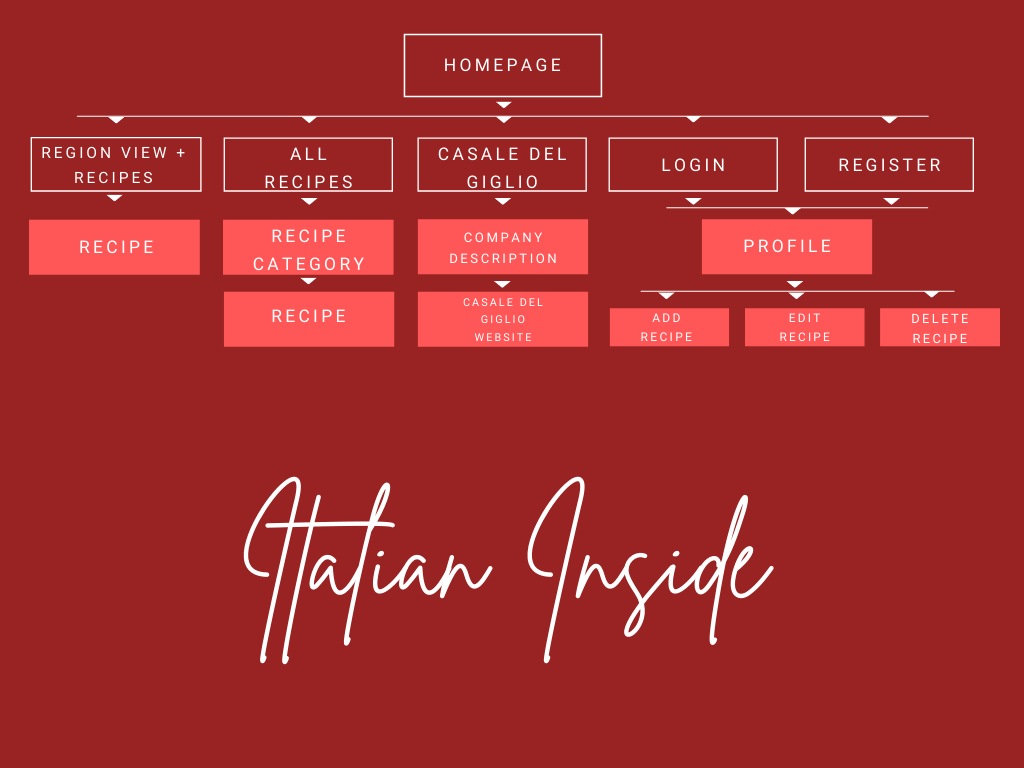
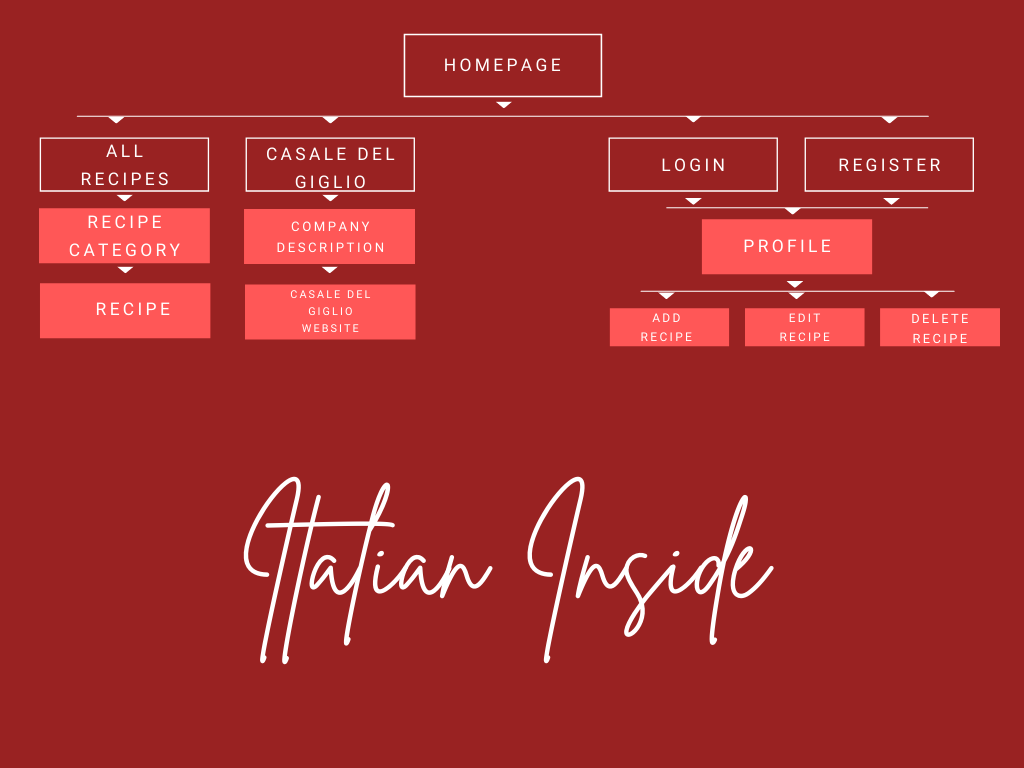
Added some new details to README.md

Changed region(s): [[0.0312, 0.1562, 0.5938, 0.4688]]

diff --git a/README.md b/README.md
@@ -1,18 +1,18 @@
 <h1 align="center">Italian Inside</h1>
 <h2 align="center">Bite it - Taste it - Love it</h2>
 
-![intro](./readme/images/responsive.png)
+![intro](./readme/images/intro.png)
 
 The Coronavirus pandemic, kept us all in our houses for more than a year.
 Many people had to find a way to cope with this new reality.
 Someone found a new hobby, others started to study a new language and still others decided to make plans for the future.
 I, honestly, did all of them, but something that many of the people I know did, is cooking; to experiment with new recipes and organize theme dinners with their household.
 
-While [Googleing](https://www.google.com/) new recipes I discovered how difficult it is to find an authentic recipe. Many are just Americanized versions of the genuine one with extra fats and less flavours.
+While [Googleing](https://www.google.com/) new recipes I discovered how difficult it is to find an authentic recipe. Many are just modified versions of the genuine one, with extra fats and less flavours.
 
 A *cuisine* lover like me could not accept this so I decided to make my little part to change this.
 
-I don't know much about other contries but I know a lot about Italy; that is how *Italian Inside* was born.
+I don't know much about other countries but I know a lot about Italy; that is how *Italian Inside* was born.
 
 Italian Inside targets two main groups:
 
@@ -82,25 +82,19 @@ Italian Inside also provides a service to me, the developer, because it advertis
 
 ### Homepage
 
-* As a website owner I want to make it easy for people to consult my website so I will give them the possibility to click on a region in the map to view the recipes of that area.
+* As a website owner I want my website to provide a service but also be fun, that is why I add a map of Italy that, when hovering on it, will reveal the name and the gastronomic specialties of every region.
 
-* As a user, if I want to view the recipes of a specific region I can just click on it.
+* As a user, I would like to know more about italy, like some fun facts.
 
 * As a website owner I want people to easily navigate, that’s why I will provide on every page a navigation bar and a footer with all the links to the pages.
 
 * As a user I want to be able to easily access all pages of the website.
 
-### Regions
-
-* As a website owner I will display my recipes divided by regions so the users will know where that dish belongs to.
-
-* As a user I want to see where a recipe was created so that I can also learn something about Italy.
-
 ### All Recipes
 
-* As a website owner, in this page I will divide all recipes by type to adapt to the different needs and desires of the users.
+* As a website owner, I want to be clear from the beginning the typology of recipes that are on the website. That is why for example, the recipes will have a different background per type and an icon (with tooltip) will inform the uder if the dish is vegetrian or not.
 
-* As a user, if for example I am looking for a dessert, I want to go on the “All recipes” page and find the “Dessert” section.
+* As a user, if for example I am looking for a dessert, I want to go on the “All recipes” page and find the “Dessert” type recipes.
 
 * As a website owner, I want the users to be able to find recipes easily; that is why I will add a search bar.
 
@@ -136,7 +130,7 @@ Italian Inside also provides a service to me, the developer, because it advertis
 
 The entire website uses red as the main color. This is been chosen because red is often associated by the mind to food, as for example green to nature.
 By browing the website is easily noticible that more shades of red have been used.
-The red scheme is being balanced by the use of black (for the text) and white (for the text and the background).
+The red scheme is being balanced by the use of black and white (for the text).
 
 ![red](./readme/images/red.png) 
 
@@ -159,15 +153,14 @@ The icons used in this website are all taken from [Font Awesome](https://fontawe
 ### Images
 
 The images used are taken from different sources:
-* The categories in the "All recipes" pages and some of the recipes pictures, are taken from [Pexels.com](https://www.pexels.com/), that provides images without copyright.
-* The ones used for the regions pages are from [Pixabay](https://pixabay.com/it/).
+* The categories in the "All recipes" pages, the background and the recipes pictures, are taken from [Pexels.com](https://www.pexels.com/), that provides images without copyright.
 * The shortcut icon representing a slice of pizza is been taken from [Favicon.io](https://favicon.io/).
 * The picture with the logo of ["Casale del Giglio"](https://www.casaledelgiglio.it/en/) is been taken from their website.
-* The pictures used for the recipes, some have been taken by me and some have been sent to me by a friend that is a chef and took them personally.
 
 ### Graphic Elements
 
 The code for the interactive map used on the homepage is been realized by [Antonio Del Cin](https://codepen.io/Antoniox22/pen/oYRowJ) and then customized by me.
+The code to add tooltips to the map is been written by [Naila Ahmad](https://codepen.io/nailaahmad/pen/bEBaxo).
 
 ### Defensive Design
 
@@ -188,9 +181,11 @@ All fields are required.
 
 * When trying to delete a recipe (by clicking on the button with the bin icon in the Profile page), the user will trigger a modal that will ask the user again if he/she really wants to delete that recipe.
 
+* There is a defensive 404 error page that will block anyone trying to access a page that require authentification, when they are not authentified.
+
 ### Navigation
 
-Is really important for the website to be user friendly and to help them access the page they are looking for within between maximum 5 clicks.
+Is really important for the website to be user friendly and to help users access the page they are looking for within maximum 5 clicks.
 Below you can find the sitemap of Italian Inside.
 
 <img src="readme/images/site-map.png" alt="sitemap" width="500px">
@@ -199,7 +194,7 @@ Below you can find the sitemap of Italian Inside.
 
 For this project I decided to use Mongo DB as database. Below you can find the structure of my six collections:
 
-<img src="readme/images/database.png" alt="database" width="500px">
+<img src="readme/images/db.png" alt="database" width="500px">
 
 ## Wireframes
 
@@ -218,7 +213,7 @@ My wireframes have been created with [Balsamiq](https://balsamiq.com/). Click on
 From the navigation, the user can access to all main pages.
 Moreover, the logo is also a link to the homepage.
 
-In the mobile view, the menu can be accessed by clicking on hamburger icon on the top right corner that acts as a hamburger button.
+In the mobile view, the menu can be accessed by clicking on hamburger icon on the top right corner that acts as a hamburger menu button.
 The menu will then scroll out from the right side.
 
 * Footer
@@ -228,11 +223,7 @@ It also includes the links to [Facebook](https://www.facebook.com/), [Instagram]
 
 * Homepage
 
-The homepage includes an introduction to the website and an interactive map. By clicking on a region, the page of the selected region will open.
-
-* Region
-
-The region page includes an image of the region, a little list with the most famous products of the region and a list with the recipe of that region.
+The homepage includes an introduction to the website and an interactive map. By hovering on the map, every region will open a tooltip saying the name of that region and the products it is famous for.
 
 * All recipes
 
@@ -242,7 +233,7 @@ Next to each recipe there will be an icon showing if that recipe contains meat, 
 
 * Recipe
 
-The recipe view displays the title with a picture an a few information about the recipe, like servings, difficulty level and ingredients.
+The recipe view displays the title with a picture and a few information about the recipe, like servings, difficulty level and ingredients.
 Underneath the preparation of the recipe is displayed step by step.
 
 * Casale del Giglio
@@ -270,11 +261,12 @@ A flash message will appear if the username or password are incorrect.
 
 In the future I would like to add to Italian Inside:
 - The possibility for users to upload their picture of the recipe once they prepared it at home.
-- The possibility for users to comment under the recipes and add their opinions or advices for other users
+- The possibility for users to comment under the recipes and add their opinions or advices for other users.
 - The user will recive an email after they register with a welcoming message and their log in credentials.
 - Add videos of the preparation of the recipes
+- To give the possibility to the user to create a "favorites" list
 - Create real pages on social medias and advertise the website by teaching a few words in italian or sharing fun facts.
-- Add a map that shows from in the world are people using Italian Inside in order to show from where people are preparing and sharing their italian recipes.
+- Add a map that shows from where in the world are people using Italian Inside in order to show from where people are preparing and sharing their italian recipes.
 
 # Technologies Used
 
@@ -300,6 +292,7 @@ In the future I would like to add to Italian Inside:
 * [W3C Markup Validation Service](https://validator.w3.org/) - Used to identify errors in the HTML code.
 * [W3C CSS Validator](https://jigsaw.w3.org/css-validator/) - Used to identify errors in the CSS code.
 * [Google Lighthouse](https://developers.google.com/web/tools/lighthouse) - Used to verify performance.
+* [qTip](https://github.com/qTip2/qTip2) - Used to add tooltips to the map
 
 # Testing
 
@@ -341,6 +334,9 @@ In the future I would like to add to Italian Inside:
 5. The way I decided to use is via GitHub. To select this method click on "connect to GitHub" and select the right repository. Click on connect.
 6. Before selecting "Enable Automatic Deploys" go to the setting!
 7. The environment variables are hidden so we will have to write them manually. Do do this, from settings click on "Reveal config vars" and insert your variables.
+
+<img src="readme/images/values.png" alt="How to Deploy - Values" width="500px">
+
 8. Go back to the terminal in GitPod and push both the requirements.txt and the Procfile one at the time, with their respective commits.
 9. We can now go back to Heroku and click on "Enable Automatic Deployment". Next click on "Deploy Branch".
 
@@ -364,15 +360,12 @@ The logo of Italian Inside is been created by me on [Canva](https://www.canva.co
 
 The shortcut icon is been taken from [Favicon.io](https://favicon.io/).
 
-The pictures of the categories have been found on [Pexels.com](https://www.pexels.com/).
-
-The pictures used for the regions are from [Pixabay](https://pixabay.com/it/).
-
-The pictures of the recipes, some are mine, of dishes that I made. Some have been taken from Pexels. Some others have been supplied by my friend [Giacomo](https://www.instagram.com/ziojack93/).
+The pictures of the categories, recipes and the background have been found on [Pexels.com](https://www.pexels.com/).
 
 ## Code
 
 The graphic element of the map of Italy is been created by [Antonio Dal Cin](https://codepen.io/Antoniox22/pen/oYRowJ).
+The map tooltips code is been created by [Naila Ahmad](https://codepen.io/nailaahmad/pen/bEBaxo).
 
 Some code snippets like the regEx pattern have been taken from [StackOverflow](https://stackoverflow.com/).
 
@@ -385,8 +378,6 @@ I want to thank you some people that made the difference and helped me in comple
 First of all to my mentor [Precious Ijege](https://www.linkedin.com/in/precious-ijege-908a00168/) for supporting me in this project and giving me great advices.
 
 To [Code Institute](https://codeinstitute.net/) for all the things they taught me.
-
-To my friend [Giacomo](https://www.instagram.com/ziojack93/) for realizing some dishes in the last week before my submission so I can have the pictures.
 
 To my parents, [Monica and Gabriel Lupu](https://www.facebook.com/lupu.emonica) that never stop sustaining me.
 
